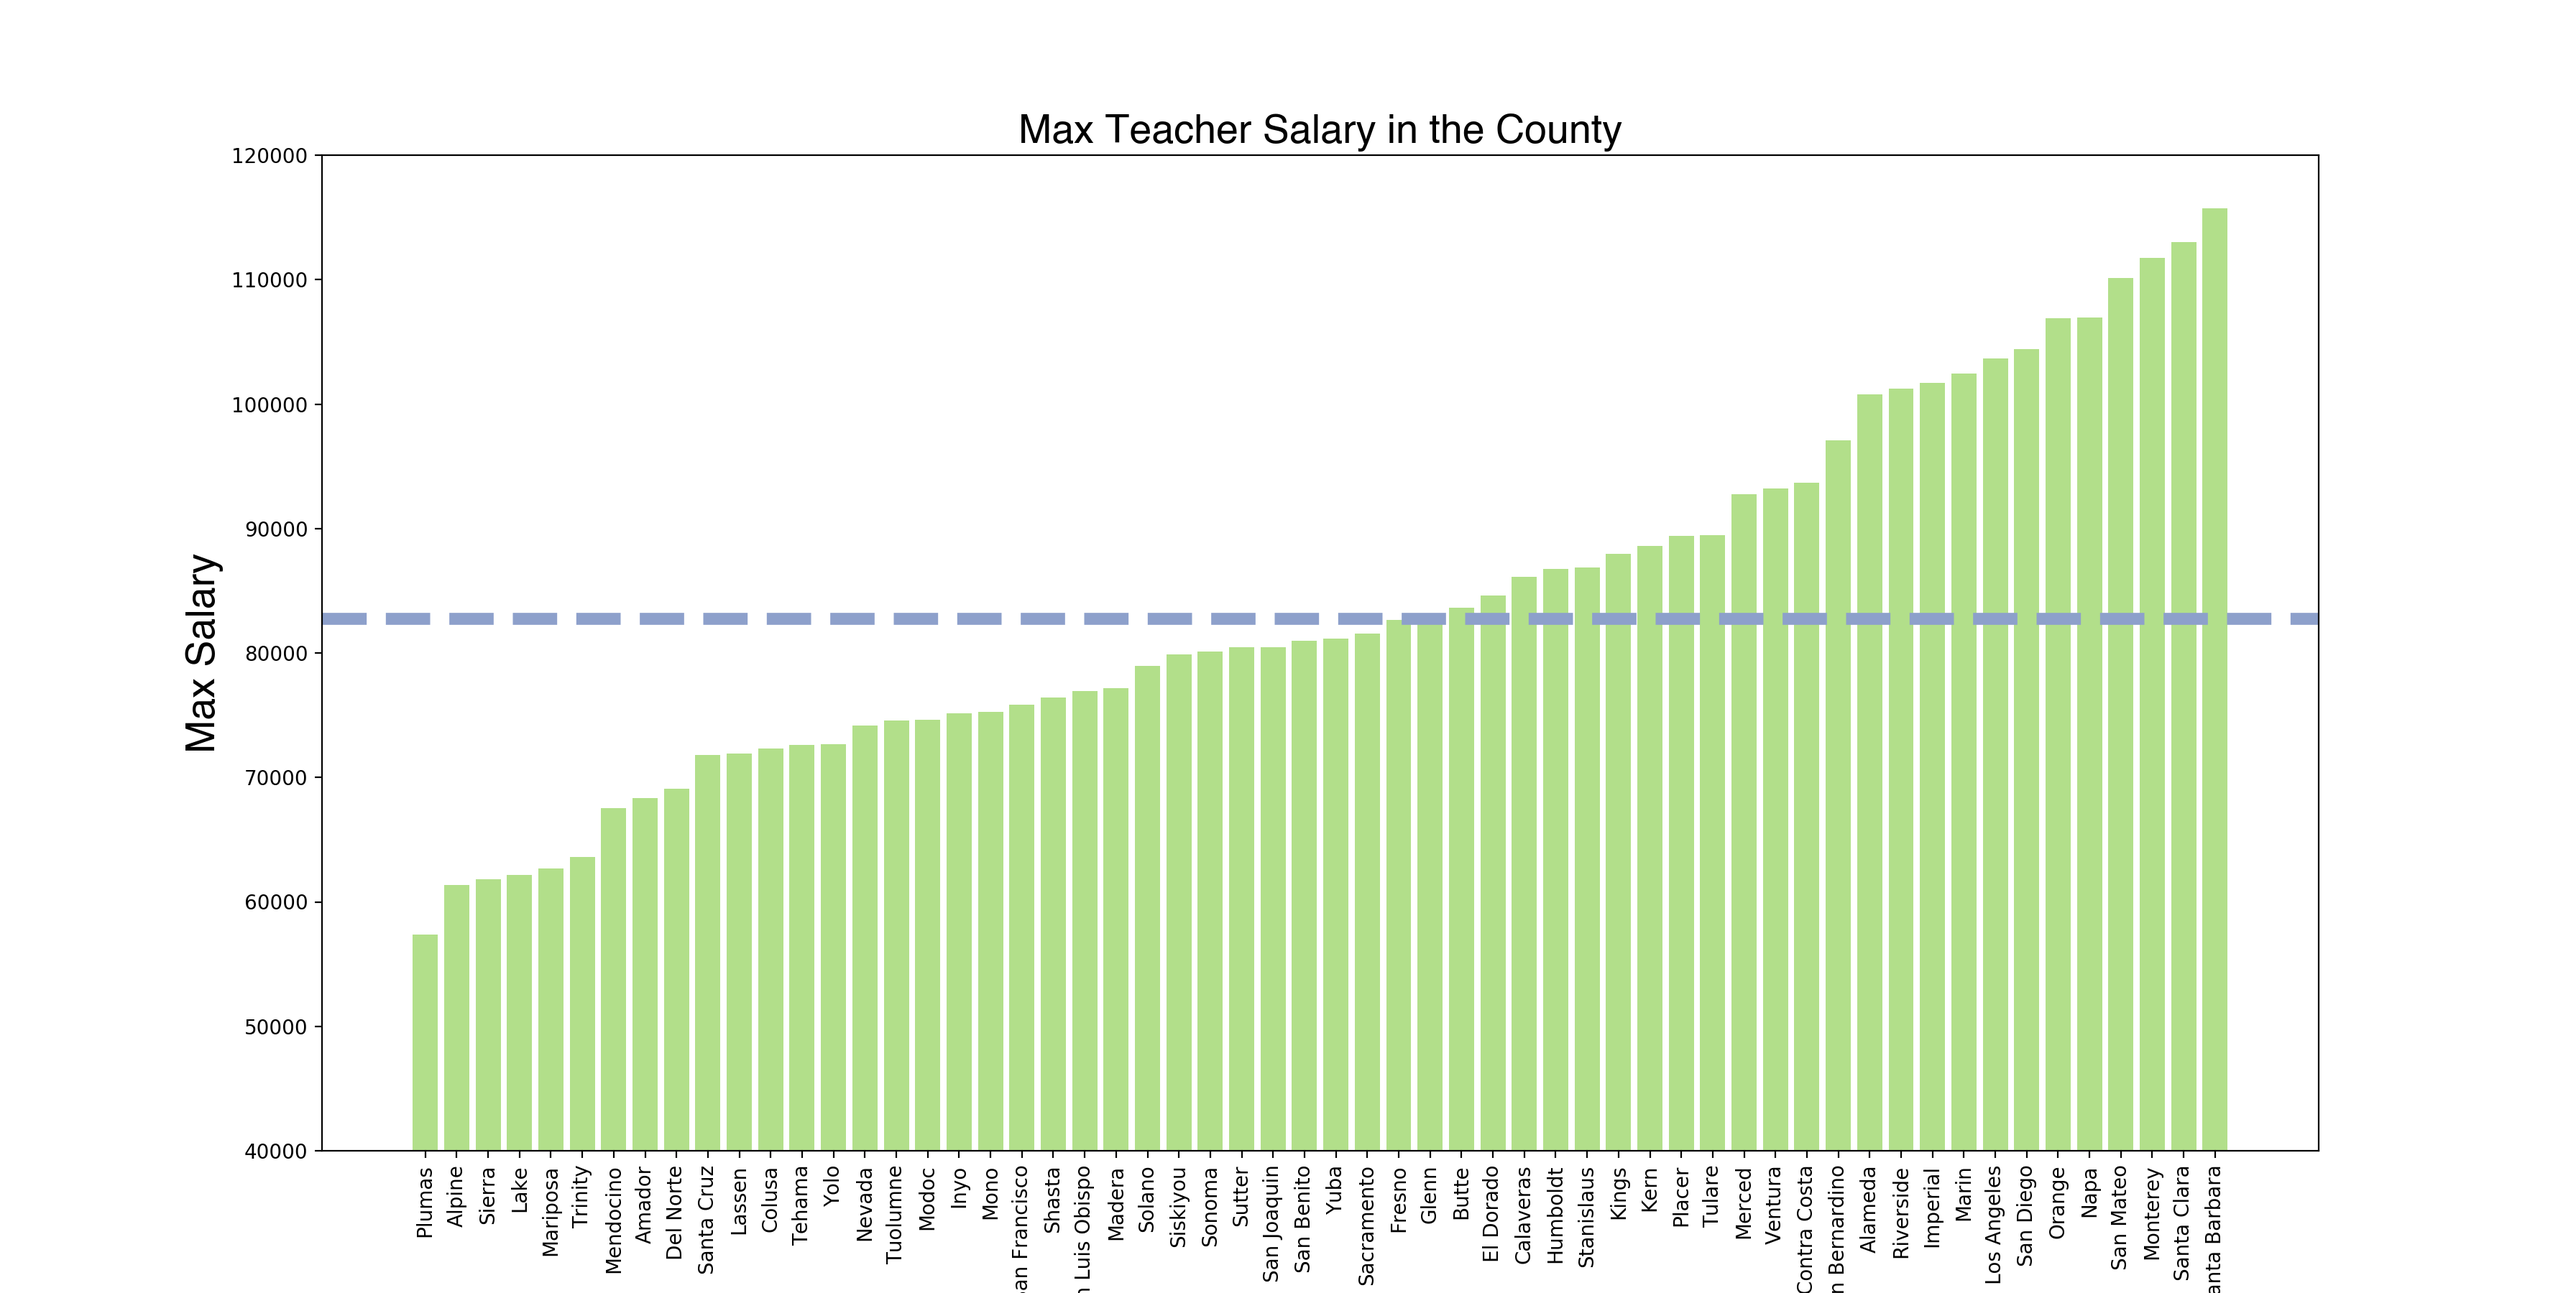
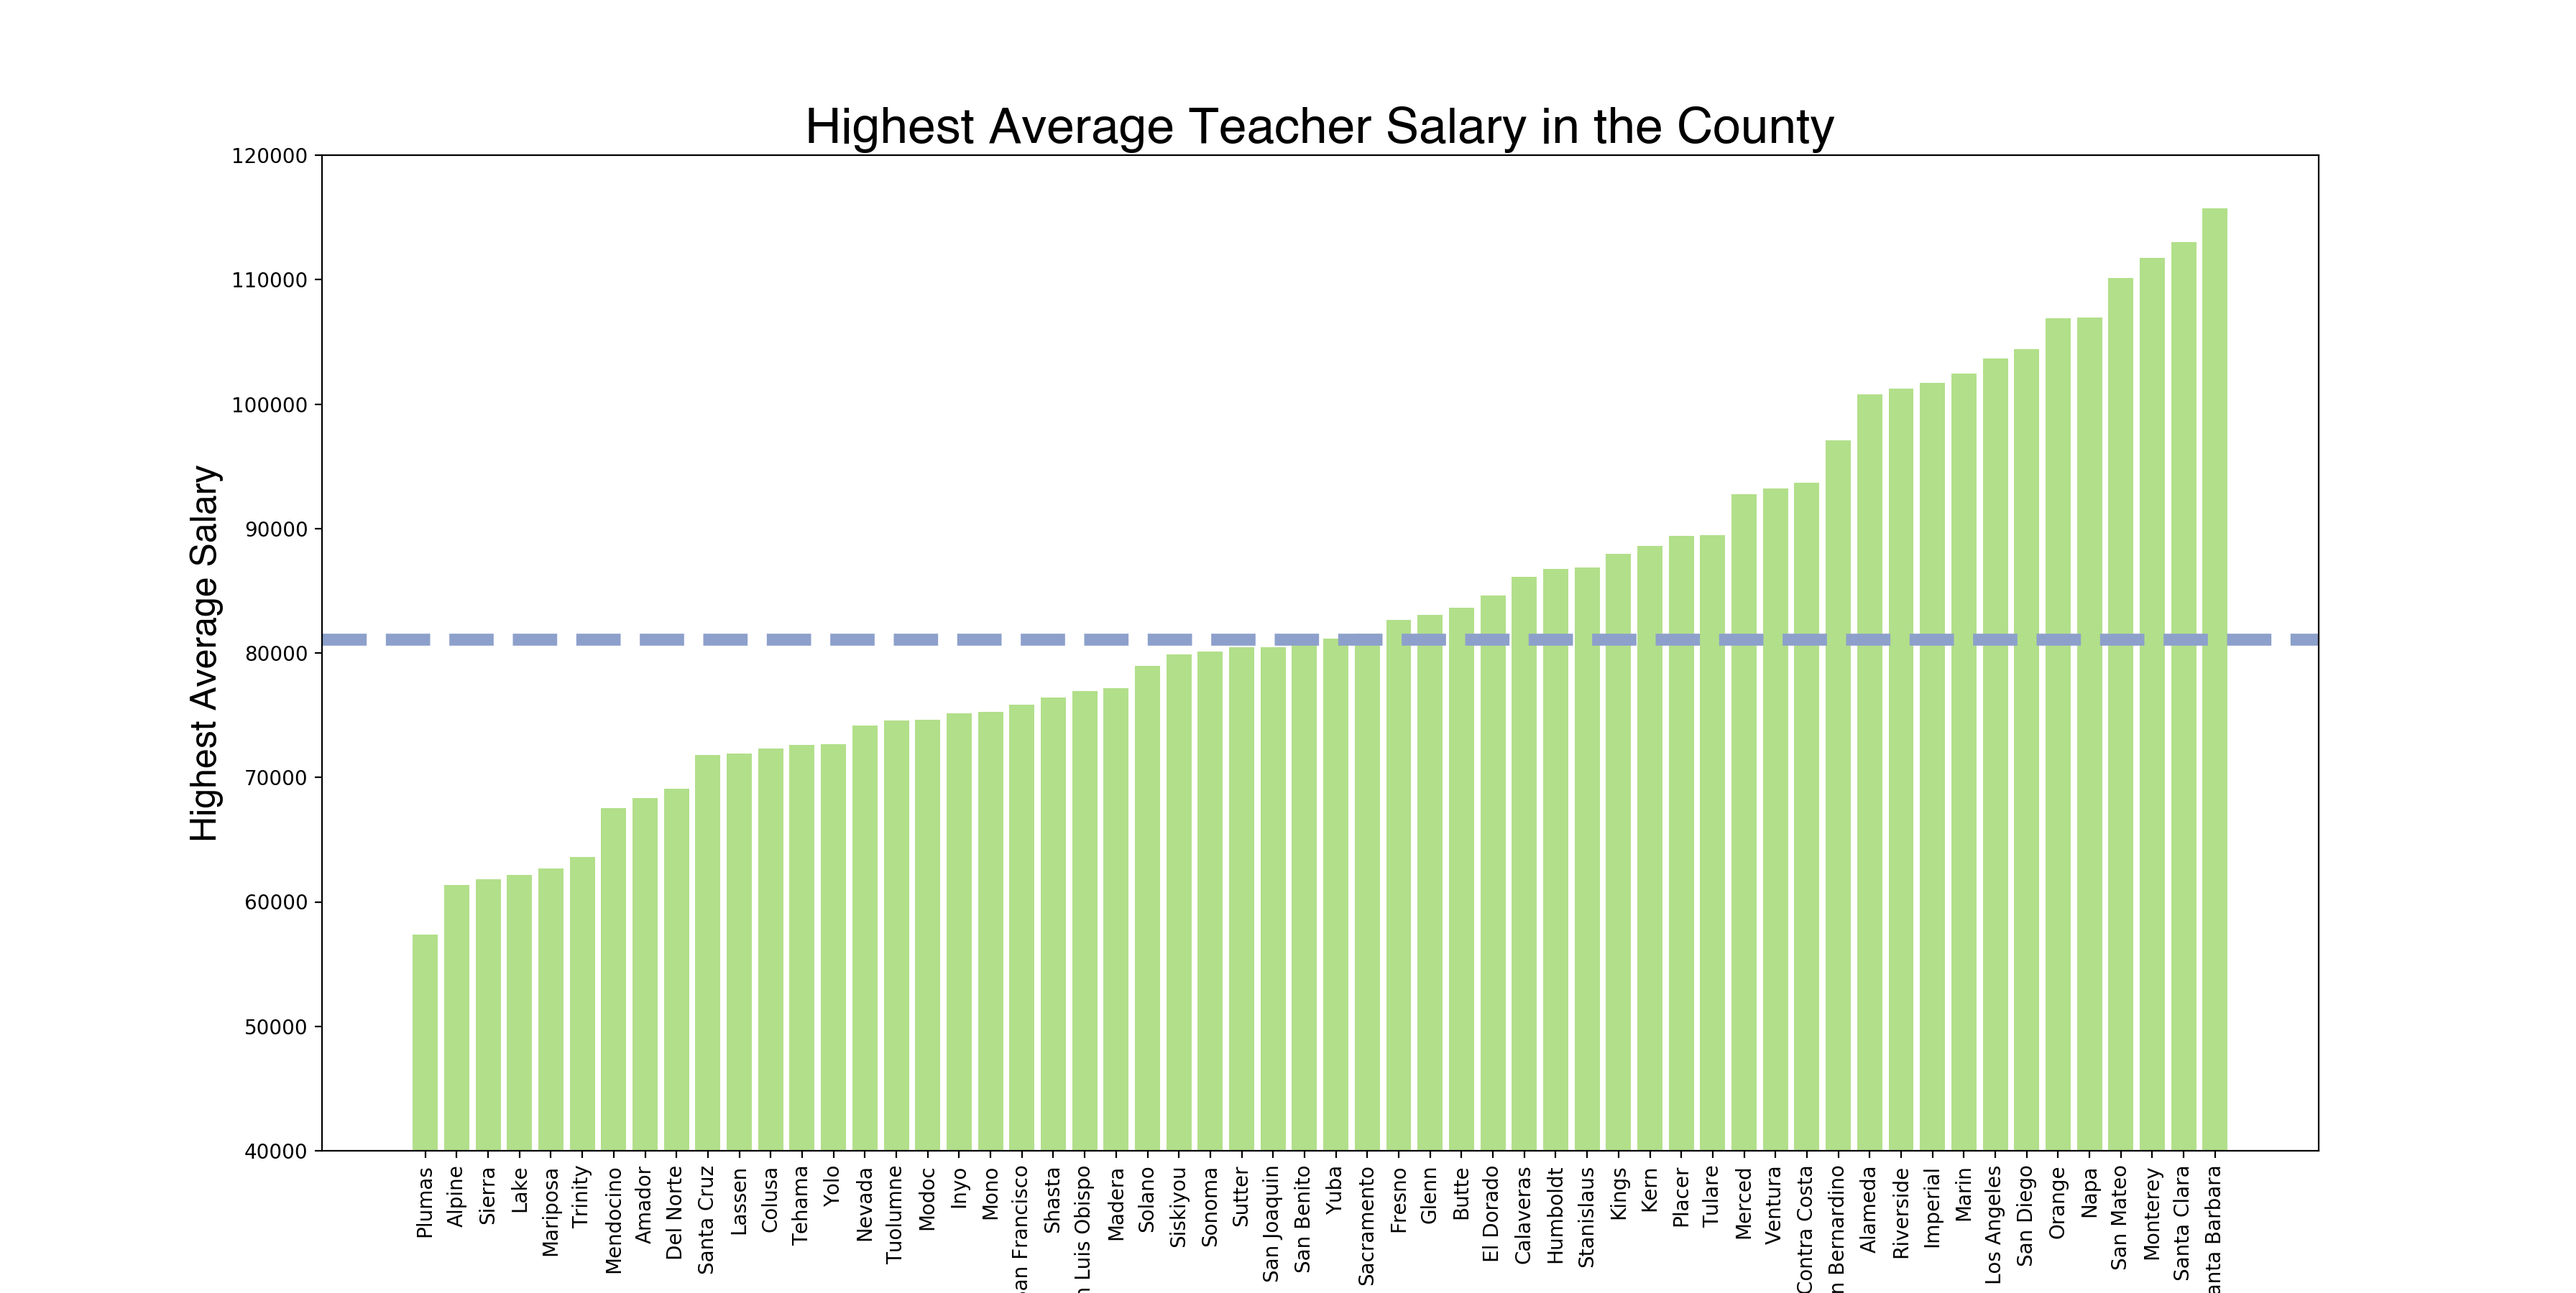
Updating with functions

Changed region(s): [[0.125, 0.4667, 0.9062, 0.4978], [0.3125, 0.0933, 0.7188, 0.1244], [0.0625, 0.3733, 0.0938, 0.6533]]

diff --git a/src/graph_code.py b/src/graph_code.py
@@ -5,11 +5,11 @@ import seaborn as sn
 
 fonttitle = {'fontname':'Helvetica', 'fontsize':25}
 fontaxis = {'fontname':'Helvetica', 'fontsize':18}
-blue_color = '#1f788b4'
+blue_color = '#1f788bff'
 green_color = '#b2df8a'
 purple_color = '#8da0cb'
 
-#README Graph 1: Highest Avg Teacher Salary by County Graph
+#README Graph 1: Highest Avg Teacher Salary by County
 salary_graph = full.groupby('County Name').agg({'Avg Salary':'max'})\
                     .reset_index()\
                     .sort_values(by='Avg Salary')\
@@ -26,7 +26,7 @@ plt.title('Highest Average Teacher Salary in the County', fontdict=fonttitle)
 plt.show();
 
 
-#----   README Graph 2: Scatter Salary vs Met for ALL
+#----   README Graph 2: Scatter ALL Salary vs ALL Met
 fig, ax = plt.subplots(figsize= (18,9))
 ax.scatter(full['Avg Salary'], full['Met or Above'], color = '#8da0cb', alpha = 0.3)
 plt.title('Does Higher Pay Create Success?', fontdict=fonttitle)
@@ -36,7 +36,7 @@ fig.tight_layout
 plt.show();
 
 
-#----   README Graph 3: Scatter Salary vs Met by District
+#----   README Graph 3: Scatter District Salary vs All Met
 graph = full.groupby('District Name').agg({'Avg Salary':'max', 'Met or Above':'mean'})
 fig, ax = plt.subplots(figsize= (18,9))
 ax.scatter(graph['Avg Salary'], graph['Met or Above'], color = blue_color, marker ='D')
@@ -53,92 +53,26 @@ fig, ax = plt.subplots(1, 2, figsize = (15, 9))
 ax[0].hist(bottommath, alpha = .8, bins = 70, color = purple_color, label = 'Bottom paying districts')
 ax[0].hist(topmath, alpha = .6, bins = 70, color = green_color, label = 'Top paying districts')
 ax[0].legend(loc="upper left")
-ax[0].set_title(f'Percentage of students \n proficient or higher \n in Math by District', fontdict=fonttitle)
+ax[0].set_title(f'Percentage of students \n proficient or higher \n in {test1} by District', fontdict=fonttitle)
 ax[0].set_xlabel("Percent of Students", fontdict=fontaxis)
 ax[0].set_ylabel("Number of Students", fontdict=fontaxis);
 
 ax[1].hist(bottomela, alpha = .8, bins = 70, color = purple_color, label = 'Bottom paying districts')
 ax[1].hist(topela, alpha = .6, bins = 70, color = green_color, label = 'Top paying districts')
 ax[1].legend(loc="upper left")
-ax[1].set_title(f'Percentage of students \n proficient or higher \n in ELA by District', fontdict=fonttitle)
+ax[1].set_title(f'Percentage of students \n proficient or higher \n in {test2} by District', fontdict=fonttitle)
 ax[1].set_xlabel("Percent of Students", fontdict=fontaxis)
-ax[1].set_ylabel("Number of Students", fontdict=fontaxis);
+ax[1].set_ylabel("Number of Students", fontdict=fontaxis)
+plt.show();
 
 
 #----   README GRAPH 5 cdfs:
+#Both ELA and Math
+make_cdf(topela, bottomela, 'ELA', topmath, bottommath, 'Math')
 
+#----   README GRAPH 6 Correlation Maps:
+#Math
+make_heatmap(fullmath, 'Math')
 
-
-
-
-#---    CHECK OUT?!
-for i in range(1, 59):
-        temp_df = full.groupby('Co').agg({'Avg Salary':'mean', 'Met or Above':'mean'}).sort_values(by='Avg Salary')
-        plt.scatter(temp_df['Avg Salary'], temp_df['Met or Above'])
-        plt.title(i)
-        plt.show()
-"""
-THROW AWAY CODE
-#Correlation full avg and met or above
-temp_df = full[['avg','Met or Above']]
-corrMatrix = temp_df.corr()
-sns.heatmap(corrMatrix, annot=True, vmin=-0.85, vmax=0.85, cmap='PRGn');
-#------------------
-##Attempt at side by side plot and salary
-sc_math = fullmath[fullmath['County Code'] == 43].sort_values(['avg'])
-sc_ela = fullela[fullela['County Code'] == 43].sort_values(['avg'])
-
-x = sc_math['District Name']
-data1 = sc_math['Met or Above']
-data2 = sc_ela['Met or Above']
-salary = sc_ela['avg']
-
-fig, ax1 = plt.subplots(figsize=(18,9))
-
-color = 'tab:red'
-ax1.set_xlabel('District')
-plt.xticks(rotation=60)
-ax1.set_ylabel('Percentage Met or Above', color=color)
-ax1.bar(x, data1, color = color)
-ax1.bar(x, data2, color = 'blue')
-ax1.tick_params(axis='y', labelcolor=color)
-
-ax2 = ax1.twinx() 
-
-color = 'tab:green'
-ax2.set_ylabel('Salary', color=color)
-ax2.scatter(x, salary, color=color, zorder=1)
-ax2.tick_params(axis='y', labelcolor=color)
-
-fig.tight_layout() 
-plt.show()
-#------------------
-## Graph with bar chart of salary and dots of % proficient NOT GOOD
-sc_3math = full3math[full3math['County Code'] == 43].sort_values(['avg'])
-sc_3ela = full3ela[full3ela['County Code'] == 43].sort_values(['avg'])
-
-x = sc_3math['District Name']
-data1 = sc_3math['Met or Above']
-data2 = sc_3ela['Met or Above']
-salary = sc_3ela['avg']
-
-fig, ax1 = plt.subplots(figsize=(18,9))
-
-color = 'tab:red'
-ax1.set_xlabel('District')
-plt.xticks(rotation=60)
-ax1.set_ylabel('Percentage Met or Above', color=color)
-ax1.scatter(x, data1, color = color)
-ax1.scatter(x, data2, color = 'blue')
-ax1.tick_params(axis='y', labelcolor=color)
-
-ax2 = ax1.twinx() 
-
-color = 'tab:green'
-ax2.set_ylabel('Salary', color=color)
-ax2.bar(x, salary, color=color, edgecolor = 'None', alpha = 0.5)
-ax2.tick_params(axis='y', labelcolor=color)
-
-fig.tight_layout() 
-plt.show()
-"""
+#ELA
+make_heatmap(fullela, 'ELA')

diff --git a/src/stat_testing.py b/src/stat_testing.py
@@ -1,14 +1,9 @@
 import pandas as pd
-import seaborn as sn
+import numpy as np
 import matplotlib.pyplot as plt
-import seaborn as sn
 import scipy.stats as stats
 
-fonttitle = {'fontname':'Helvetica', 'fontsize':25}
-fontaxis = {'fontname':'Helvetica', 'fontsize':18}
-blue_color = '#1f788b4'
-green_color = '#b2df8a'
-purple_color = '#8da0cb'
+from import_data import *
 
 #p value ELA = 5.4839 e-64
 topela = fullela[fullela['Avg Salary'] > fullela['Avg Salary'].median()]['Met or Above']
@@ -19,63 +14,3 @@ stats.ttest_ind(topela, bottomela)
 topmath = fullmath[fullmath['Avg Salary'] > fullmath['Avg Salary'].median()]['Met or Above']
 bottommath = fullmath[fullmath['Avg Salary'] <= fullmath['Avg Salary'].median()]['Met or Above']
 stats.ttest_ind(topmath, bottommath)
-
-#HIST ELA
-fig, ax = plt.subplots(figsize = (10, 8))
-plt.hist(topela, alpha = .6, bins = 75, color = blue_color)
-plt.hist(bottomela, alpha = .8, bins = 75, color = green_color);
-
-#HIST Math
-fig, ax = plt.subplots(figsize = (10, 8))
-plt.hist(topmath, alpha = .9, bins = 75, color = blue_color)
-plt.hist(bottommath, alpha = .5, bins = 75, color = green_color);
-
-#CDF Graph
-def cdf(value, array):
-    return (array<value).sum()/len(array)
-
-vcdf = np.vectorize(cdf, excluded = ['array'])
-etop_cdf = vcdf(value = topela, array = topela)
-ebottom_cdf = vcdf(value = bottomela, array = bottomela)
-plt.scatter(topela, etop_cdf, marker = '.', color = blue_color)
-plt.scatter(bottomela, ebottom_cdf, marker = '.', color = green_color)
-plt.show();
-
-vcdf = np.vectorize(cdf, excluded = ['array'])
-mtop_cdf = vcdf(value = topmath, array = topmath)
-mbottom_cdf = vcdf(value = bottommath, array = bottommath)
-plt.scatter(topmath, mtop_cdf, marker = '.', color = blue_color)
-plt.scatter(bottommath, mbottom_cdf, marker = '.', color = green_color)
-plt.show();
-
-
-
-#---- THROW AWAY
-"""#FROM LAND
-topela = fullela[fullela['Avg Salary'] > fullela['Avg Salary'].mean()]['Met or Above']
-bottomela = fullela[fullela['Avg Salary'] <= fullela['Avg Salary'].mean()]['Met or Above']
-stats.ttest_ind(topela, bottomela)
-
-#FROM LAND
-topmath = fullmath[fullmath['Avg Salary'] > fullmath['Avg Salary'].mean()]['Met or Above']
-bottommath = fullmath[fullmath['Avg Salary'] <= fullmath['Avg Salary'].mean()]['Met or Above']
-stats.ttest_ind(topmath, bottommath)
-
-#---- Ran another versions CHECK WITH INSTRUCTOR 
-#NEW df grouped by Co
-test_ela = fullela.groupby("Co").agg({'Avg Salary':'mean', 'Students Prof':'sum', 'Students Tested':'sum'})
-test_ela['Percent Prof'] = test_ela['Students Prof'] / test_ela['Students Tested']
-
-#ELA testing group by county with avg of avg salary then avg, and actual prof avg p = 0.0058
-test_topela = test_ela[test_ela['Avg Salary'] > test_ela['Avg Salary'].mean()]['Percent Prof']
-test_bottomela = test_ela[test_ela['Avg Salary'] <= test_ela['Avg Salary'].mean()]['Percent Prof']
-stats.ttest_ind(test_topela, test_bottomela)
-
-#NEW df grouped by Co
-test_math = fullmath.groupby("Co").agg({'Avg Salary':'mean', 'Students Prof':'sum', 'Students Tested':'sum'})
-test_math['Percent Prof'] = test_math['Students Prof'] / test_math['Students Tested']
-
-#Math testing group by county with avg of avg salary p = 0.02
-test_topmath = test_math[test_math['Avg Salary'] > test_math['Avg Salary'].mean()]['Percent Prof']
-test_bottommath = test_math[test_math['Avg Salary'] <= test_math['Avg Salary'].mean()]['Percent Prof']
-stats.ttest_ind(test_topmath, test_bottommath)"""

diff --git a/src/import_data.py b/src/import_data.py
@@ -3,30 +3,25 @@ import matplotlib.pyplot as plt
 import numpy as np
 
 #---- SBAC DATA
-#Import all schools all district and clean
 sbac = pd.read_csv("../data/sb_ca2019_all_csv_v4.txt")
 sbac = sbac[sbac['Percentage Standard Met and Above'] != '*']
 sbac = sbac[sbac['Subgroup ID'] == 1]
 sbac = sbac[sbac['Grade'] <= 11]
-
-#When school code == 0 shares report for entire district
 sbac = sbac[sbac['School Code'] == 0]
 
-# converts string to float
+# Converts string to float
 sbac['Students Tested'] = sbac['Students Tested'].astype(float)
 sbac['Met or Above'] = sbac['Percentage Standard Met and Above'].astype(float)
+# Get desired df
 sbac = sbac[['County Code', 'District Code', 'Grade', 
              'Test Id', 'Students Tested', 'Met or Above']].drop_duplicates()
 
-
 #---- DISTRICT CODES
-#import districts and clean
 district = pd.read_csv("../data/districts.csv")
 district = district[['County Code', 'County Name', 
                      'District Code', 'District Name']].drop_duplicates()
 
-#merge district and sbac to get names
-# district_sbac = district.join(sbac, lsuffix = '_district', how = 'inner') LAND
+# Merge district and sbac
 district_sbac = pd.merge(district, sbac, how = 'inner', on = 'District Code')
 
 
@@ -37,22 +32,20 @@ teacher['District Name'] = teacher['LEA']
 teacher = teacher.dropna()
 teacher = teacher[['District Name', 'Avg Salary', 'Co']].drop_duplicates()
 
-#Noticed not all District Names match up, trying to catch all
+# Noticed not all District Names match up, trying to catch all
 teacher2 = teacher.copy()
 teacher2['District Name'] = teacher2['District Name'].str.replace(' Elementary', '')
 teacher2['District Name'] = teacher2['District Name'].str.replace(' High', '')
 teacher2['District Name'] = teacher2['District Name'].str.replace(' Elem.', '')
 
-#Bring two df together
+# Bring two df together
 teacher = pd.concat([teacher, teacher2]).drop_duplicates()
 
 
-#---- FULL & FINAL DATA FRAME
-# full = district_sbac.reset_index().set_index('District Name').join(teacher, how = 'inner')
+#---- FULL & FINAL DATA FRAME 
 full = pd.merge(district_sbac, teacher, how = 'inner', on = 'District Name')
 full = full[['County Name', 'Co', 'District Name', 'District Code', 'Grade', 
             'Test Id', 'Students Tested', 'Met or Above', 'Avg Salary']].reset_index()
-
-#Creating ela and math df
+# Creating ELA and MATH df
 fullela = full[full['Test Id'] == 1]
 fullmath = full[full['Test Id'] == 2]

diff --git a/README.md b/README.md
@@ -25,11 +25,28 @@
 - Students with special needs will take a modified version, and are not accounted for in this analysis
 
 **Data Exploration**
-- Which county offers the highest average salary?
+- Since we do not want to over aggregate our data, so lets look at each District in each County and find the highest average salary offered in that County
+
 ![title](images/salary_bycounty.png)
 
-- Lets look at each district's average teacher salary vs the percentage of students who met or exceeded standard in that same district
+- We can look at each district's average teacher salary vs the percentage of students who met or exceeded standard in that same district
+
 ![title](images/scatterpay_met.png)
 
-- The above graph is alot - in fact, it is over 8,000 dots! Lets look at each county individually and see how the highest average salary compares to the percentage of students who met or exceeded standard for the whole county
-![title](images/scatterpaybycounty.png)
+- The above graph is alot - in fact, it is over 8,000 dots! Lets look at each District individually and see how that District's average salary compares to the percentage of students who met or exceeded standard for the whole county
+
+![title](images/scatterpaybydistrict.png)
+
+- ttest results
+*image 
+
+- Lets seperate out the top paying districts from the bottom paying districts by splitting them at the Median and see how their students perform on both ELA and Math tests
+
+![title](images/histbytopbottom.png)
+
+- Lets look at difference between the top half paying districts and the bottom half paying districts CDF for both ELA and Maths
+
+![title](images/cdf.png)
+
+- Lets look at the correlation
+
